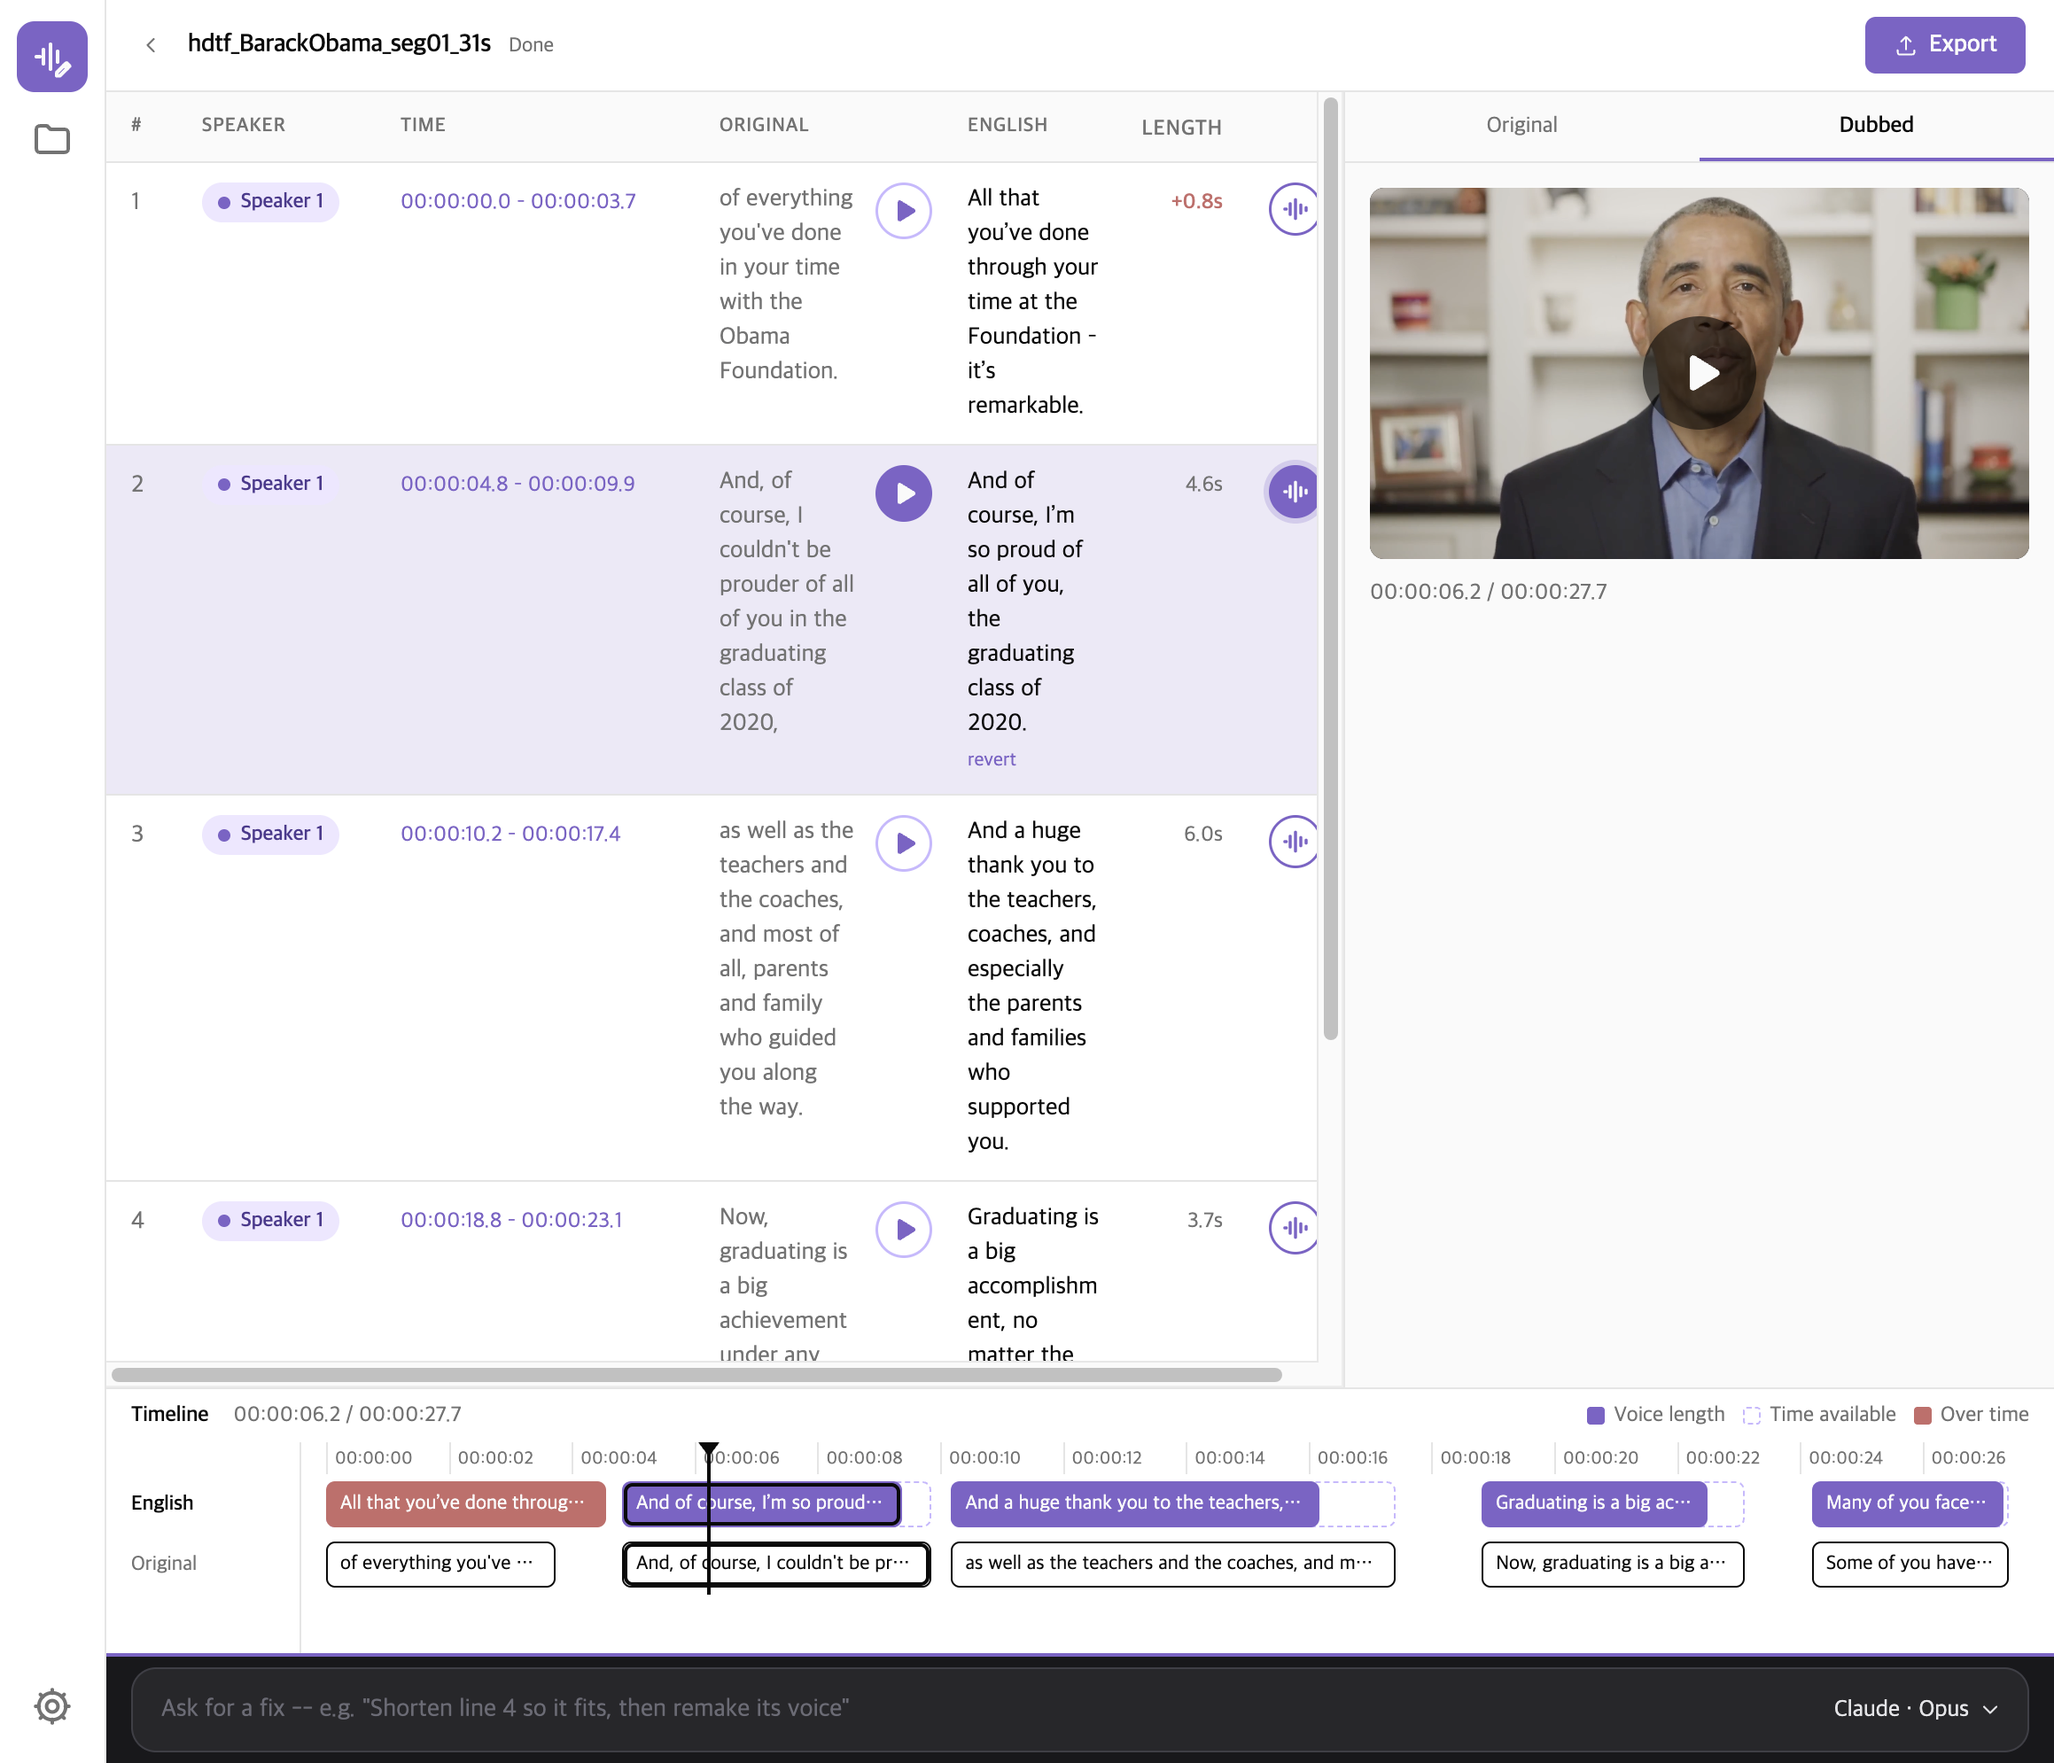
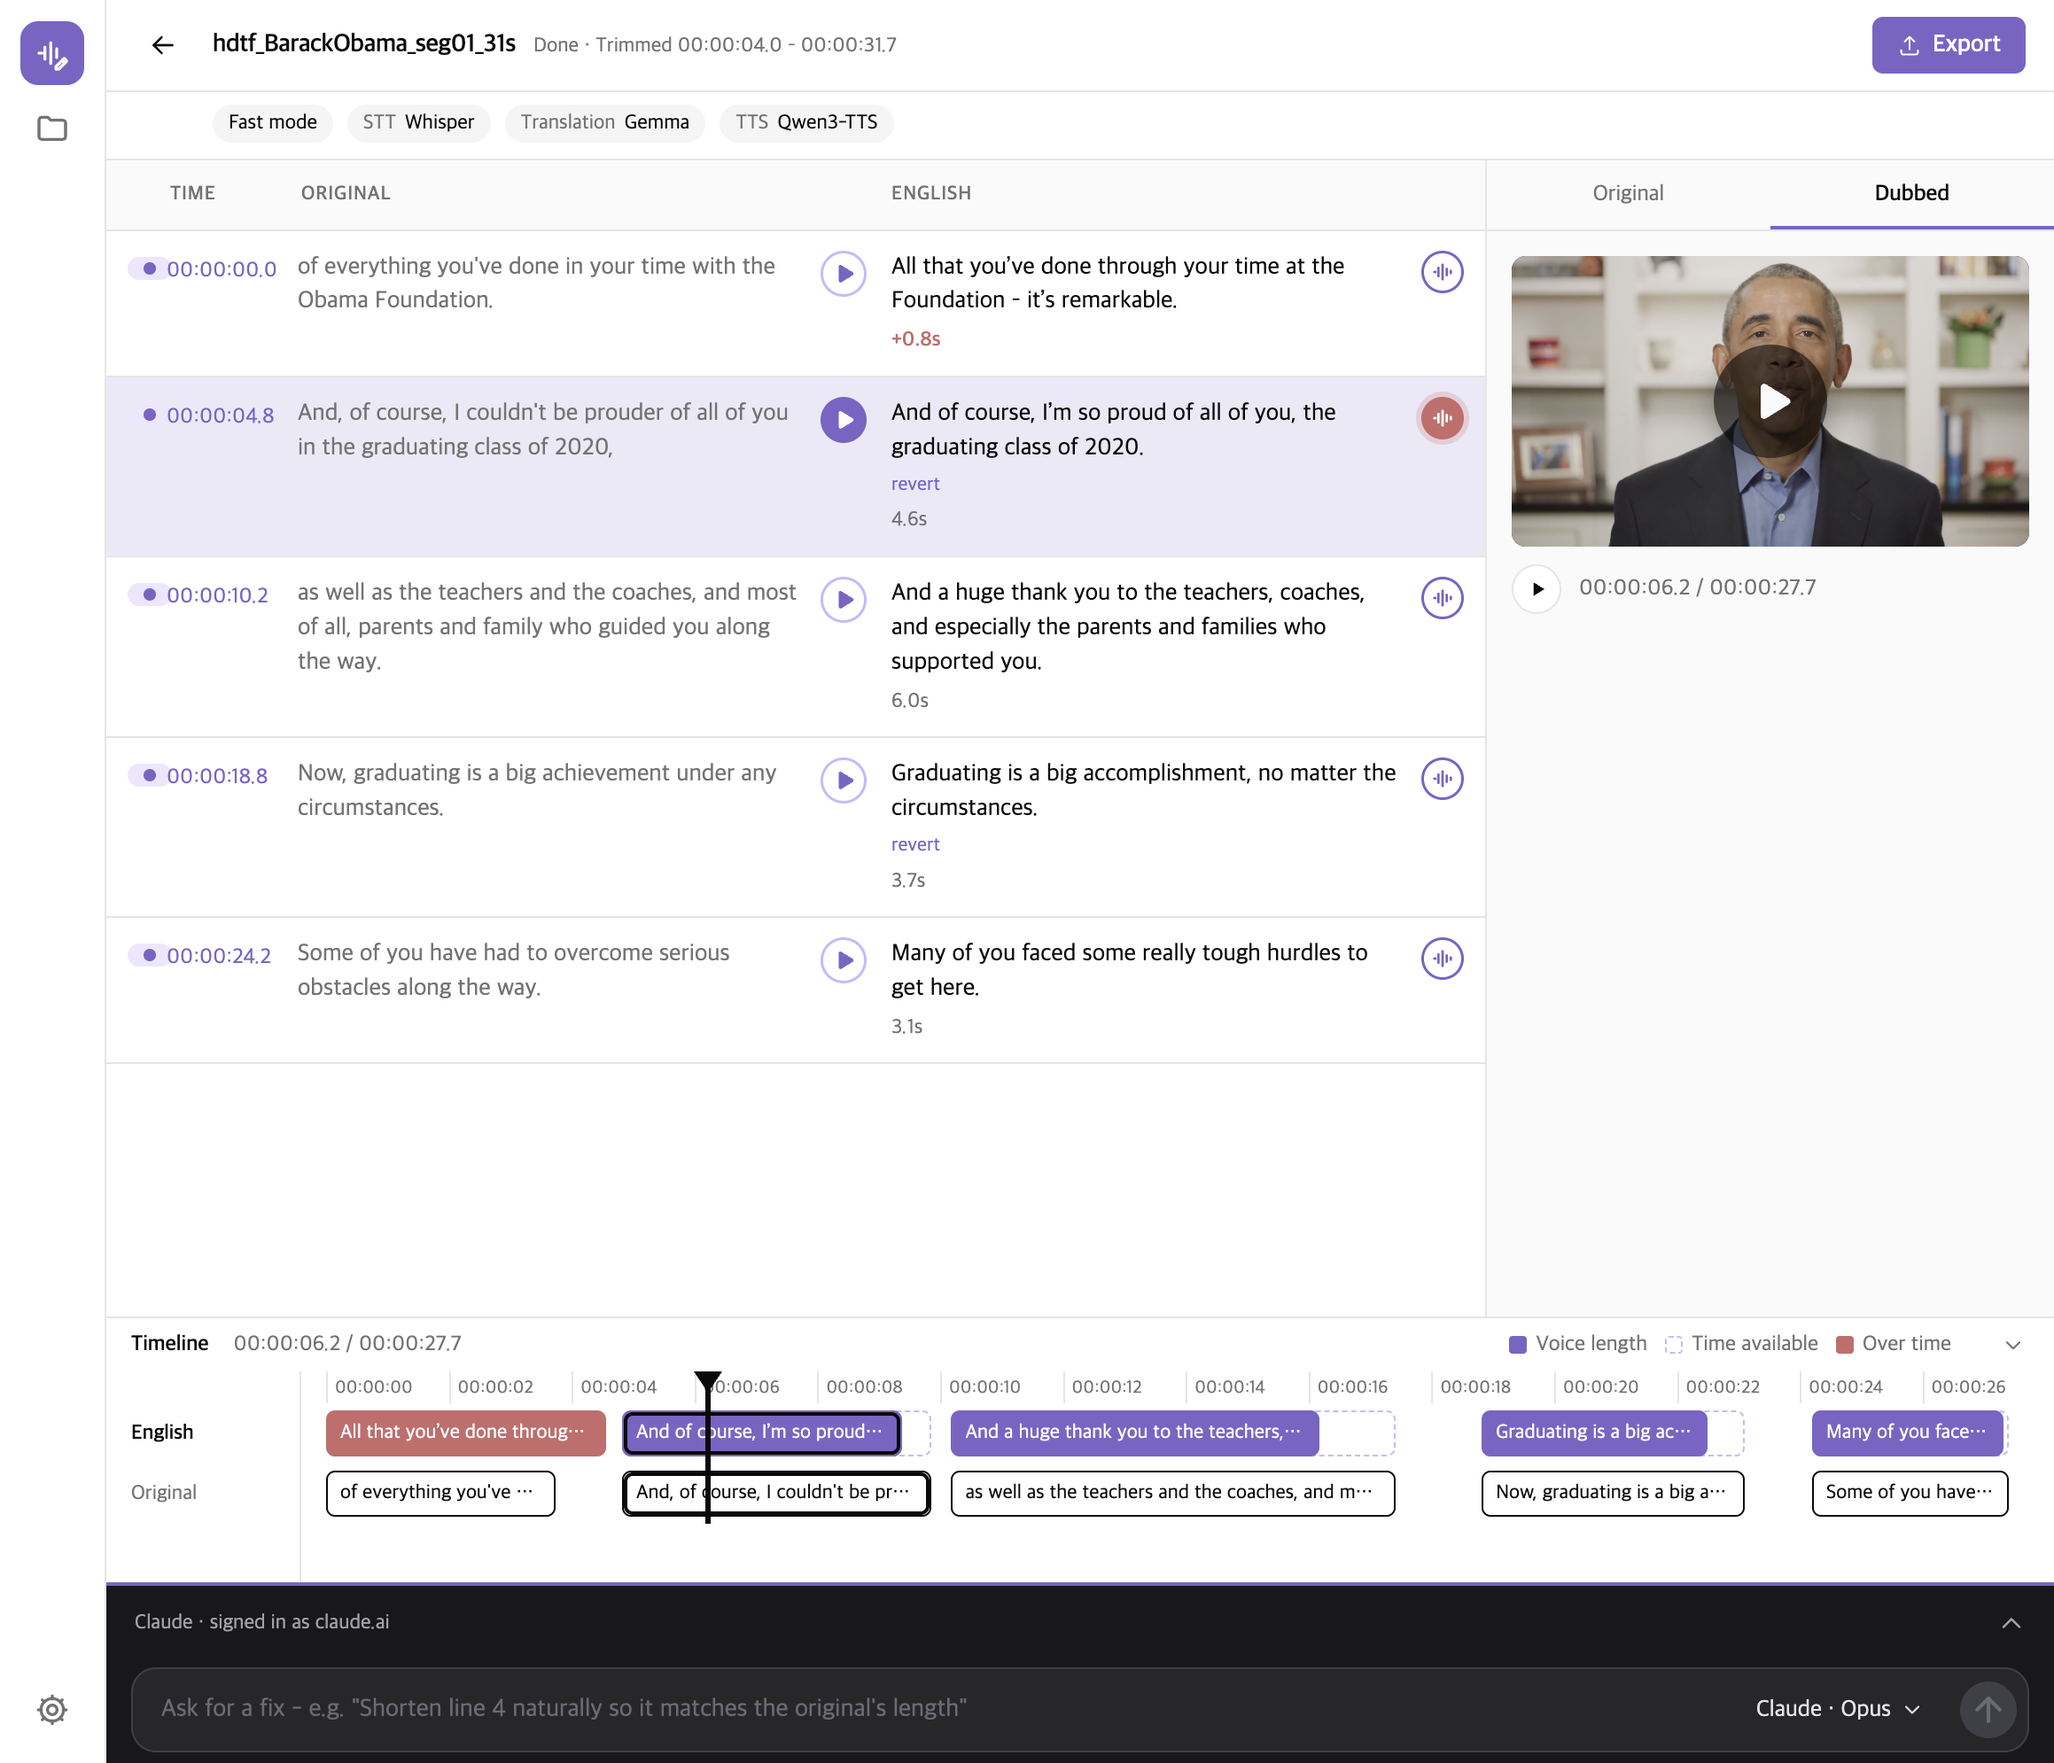
Re-shoot the docs screenshots against the redesigned screens
The images were taken before the engines chip row, the agent strip's
heading, the compact script table, the trim ruler and the rest, so every
screenshot showed a window the app no longer draws.

Adds export.png, which the Export section had no picture of, and updates
the three captions whose screens now show something different.

diff --git a/docs/usage.md b/docs/usage.md
@@ -83,7 +83,7 @@ times on different machines, so any estimate would be a promise the app breaks.
 When the job finishes, it opens on the screen the app is really about — the script.
 
 <img src="images/done-screen.png" width="100%"
-     alt="A finished job: the script as a table of numbered lines with their time slots, the original line and the translated line side by side, the player beside it on the Dubbed tab, a timeline underneath, and the Dub Agent strip along the bottom.">
+     alt="A finished job: the engines it was made with in a row of chips along the top, the script as a table of lines with their time slots, the original line and the translated line side by side, the player beside it on the Dubbed tab, a timeline underneath, and the Dub Agent strip folded away along the bottom.">
 
 - **The table** is one row per line: its number, who spoke it, its time slot, the
   original line, the translated line, and how long the voice actually runs.
@@ -102,6 +102,17 @@ The **Speaker** column is filled in only when PersoDub worked out who spoke when
 started from subtitles you supplied (an option of the HTTP API, not of the app's own
 screens) skips that step, so the column stays empty for it.
 
+### Export
+
+**Export** in the top bar opens a dialog with a link per file.
+
+<img src="images/export.png" width="100%"
+     alt="The Export dialog over the finished screen: a link for the dubbed video, a link for the subtitles, and a line underneath saying the files are saved to Downloads, then the day, then the project.">
+
+The line under the links says where a click will put the file: the app saves it without
+asking, into `Downloads` / the day the job ran / the project's name. Once a file has
+landed, its row is ticked and says **Saved**, and the line says which file went where.
+
 ## The Dub Agent
 
 The strip along the bottom of the finished screen is the Dub Agent. Ask for a fix in
@@ -109,7 +120,7 @@ plain words — "shorten line 4 so it fits, then remake its voice" — and it ed
 script and remakes voices through PersoDub's own tools, showing each step as it goes.
 
 <img src="images/dub-agent.png" width="100%"
-     alt="The Dub Agent strip open over the finished screen: the question typed at the top, a Reading the script step, and the assistant's answer underneath.">
+     alt="The Dub Agent strip open over the finished screen: a line along the top saying which assistant is answering, the question underneath it, the steps it took while working, and its answer at the bottom.">
 
 Pick which assistant answers from the button on the right of the strip. It runs a CLI
 that is **already installed on your Mac** — Claude Code or Codex — and is billed to

diff --git a/README.md b/README.md
@@ -179,7 +179,7 @@ once; [docs/usage.md](docs/usage.md#first-launch) shows what that screen looks l
    dubbed video and the translated `.srt`.
 
 <img src="docs/images/done-screen.png" width="100%"
-     alt="A finished job: the script as a table of numbered lines with their time slots, the original line and the translated line side by side, the player beside it on the Dubbed tab, a timeline underneath, and the Dub Agent strip along the bottom.">
+     alt="A finished job: the engines it was made with in a row of chips along the top, the script as a table of lines with their time slots, the original line and the translated line side by side, the player beside it on the Dubbed tab, a timeline underneath, and the Dub Agent strip folded away along the bottom.">
 
 Each line has a play button to hear that line alone, and a waveform button to remake
 its voice after you change the words. **Original** and **Dubbed** swap which file the
